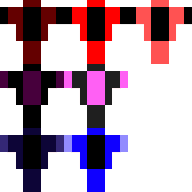
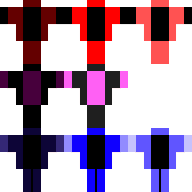
Static3 created

Changed region(s): [[0.6562, 0.6562, 1.0, 1.0], [0.4688, 0.875, 0.5312, 1.0], [0.1562, 0.875, 0.1875, 1.0]]

diff --git a/src/com/euhedral/game/Entities/Enemy/EnemyStatic3.java b/src/com/euhedral/game/Entities/Enemy/EnemyStatic3.java
@@ -6,7 +6,7 @@ import com.euhedral.game.EntityHandler;
 import java.awt.*;
 import java.awt.geom.Rectangle2D;
 
-public class EnemyStatic2 extends Enemy {
+public class EnemyStatic3 extends Enemy {
 
     double destinationX, destinationY;
     double deceleration;
@@ -19,13 +19,13 @@ public class EnemyStatic2 extends Enemy {
 
     boolean first;
 
-    public EnemyStatic2(int x, int y, int levelHeight) {
+    public EnemyStatic3(int x, int y, int levelHeight) {
         super(x, y, levelHeight);
 
 //        bulletVelocity = Utility.intAtWidth640(6);
-        shootTimerDefault = 250;
+        shootTimerDefault = 300;
         shootTimer = 50;
-        score = 175;
+        score = 200;
 
         double decelerationMAX = 0.012;
         double decelerationMIN = 0.010;
@@ -34,7 +34,7 @@ public class EnemyStatic2 extends Enemy {
         deceleration = (double) (decelerationInt) * decelerationMIN;
         deceleration = decelerationMAX;
 
-        bulletsPerShot_MAX = 3;
+        bulletsPerShot_MAX = 5;
         bulletArcAngle = 15 * bulletsPerShot_MAX;
 
         attackEffect = true;
@@ -43,10 +43,10 @@ public class EnemyStatic2 extends Enemy {
         angle = 90;
         forwardVelocity = 1;
 
-        setImage(textureHandler.enemyStatic[1]);
+        setImage(textureHandler.enemyStatic[2]);
     }
 
-    public EnemyStatic2(int x, int y, Color color, int levelHeight) {
+    public EnemyStatic3(int x, int y, Color color, int levelHeight) {
         this(x, y, levelHeight);
         this.color = color;
     }
@@ -55,7 +55,7 @@ public class EnemyStatic2 extends Enemy {
     public void initialize() {
         super.initialize();
 
-        health_MAX = 5;
+        health_MAX = 6;
 
         velX = 0;
         velY_MIN = 1.75;
@@ -95,33 +95,36 @@ public class EnemyStatic2 extends Enemy {
             }
         } else if (movementState == MOVING_CIRCLE) {
 
-            if (vMove == VerticalMovement.UP) {
-                velY -= deceleration;
-                if (Math.abs(velY) >= velY_MAX / 2) {
-                    vMove = VerticalMovement.DOWN;
-                }
-            }
+//            if (vMove == VerticalMovement.UP) {
+//                velY -= deceleration;
+//                if (Math.abs(velY) >= velY_MAX / 2) {
+//                    vMove = VerticalMovement.DOWN;
+//                }
+//            }
+//
+//            if (vMove == VerticalMovement.DOWN) {
+//                velY += deceleration;
+//                if (Math.abs(velY) >= velY_MAX / 2) {
+//                    vMove = VerticalMovement.UP;
+//                }
+//            }
+//
+//            if (hMove == HorizontalMovement.RIGHT) {
+//                velX += deceleration;
+//                if (Math.abs(velX) >= velY_MAX) {
+//                    hMove = HorizontalMovement.LEFT;
+//                }
+//            }
+//
+//            if (hMove == HorizontalMovement.LEFT) {
+//                velX -= deceleration;
+//                if (Math.abs(velX) >= velY_MAX) {
+//                    hMove = HorizontalMovement.RIGHT;
+//                }
+//            }
 
-            if (vMove == VerticalMovement.DOWN) {
-                velY += deceleration;
-                if (Math.abs(velY) >= velY_MAX / 2) {
-                    vMove = VerticalMovement.UP;
-                }
-            }
-
-            if (hMove == HorizontalMovement.RIGHT) {
-                velX += deceleration;
-                if (Math.abs(velX) >= velY_MAX) {
-                    hMove = HorizontalMovement.LEFT;
-                }
-            }
-
-            if (hMove == HorizontalMovement.LEFT) {
-                velX -= deceleration;
-                if (Math.abs(velX) >= velY_MAX) {
-                    hMove = HorizontalMovement.RIGHT;
-                }
-            }
+            calculateVelocities();
+            angle = (angle + 1) % 360;
 
             super.moveInScreen();
         }
@@ -176,7 +179,7 @@ public class EnemyStatic2 extends Enemy {
 
     @Override
     protected void setEnemyType() {
-        enemyType = EntityHandler.TYPE_STATIC2;
+        enemyType = EntityHandler.TYPE_STATIC3;
     }
 
     public boolean checkCollision(Rectangle2D object) {

diff --git a/src/com/euhedral/game/EnemyGenerator.java b/src/com/euhedral/game/EnemyGenerator.java
@@ -57,7 +57,8 @@ public class EnemyGenerator {
     final int TYPE_SIDE2 = EntityHandler.TYPE_SIDE2;
     final int TYPE_STATIC2 = EntityHandler.TYPE_STATIC2;
     final int TYPE_DRONE3 = EntityHandler.TYPE_DRONE3;
-    int maxTypes = TYPE_DRONE3 + 1;
+    final int TYPE_STATIC3 = EntityHandler.TYPE_STATIC3;
+    int maxTypes = TYPE_STATIC3 + 1;
 
     // Wave
     int wave;
@@ -170,6 +171,7 @@ public class EnemyGenerator {
 //        enemytype = TYPE_SIDE2; // stub
 //        enemytype = TYPE_STATIC2; // stub
 //        enemytype = TYPE_DRONE3; // stub
+//        enemytype = TYPE_STATIC3; // stub
 
 //        difficulty = maxTypes; // stub
 
@@ -182,36 +184,22 @@ public class EnemyGenerator {
             case TYPE_SIDE1:
                 limit = limitSide;
                 break;
-            case TYPE_STATIC2:
+            case TYPE_STATIC1:
                 limit = limitSide;
                 break;
             case TYPE_SIDE2:
                 limit = limitSide - 1;
                 break;
+            case TYPE_STATIC2:
+                limit = limitSide - 1;
+                break;
             case TYPE_DRONE3:
                 limit = 1;
                 break;
+            case TYPE_STATIC3:
+                limit = limitSide - 2;
+                break;
         }
-
-//        if (enemytype == TYPE_SIDE1) {
-//            limit = limitSide;
-//        }
-//
-//        if (enemytype == TYPE_STATIC1 || enemytype == TYPE_STATIC2) {
-//            limit = 5;
-//        }
-
-//        if (enemytype == TYPE_SIDE2) {
-//            limit = limitSide - 1;
-//        }
-//
-//        if (enemytype == TYPE_STATIC2) {
-//            limit = limitSide - 1;
-//        }
-
-//        if (enemytype == TYPE_BASIC) {
-//            limit = 20;
-//        }
 
             if (EntityHandler.getActiveEnemies(enemytype) >= limit) {
                 enemytype = TYPE_BASIC1;
@@ -267,7 +255,8 @@ public class EnemyGenerator {
         }
         // Horizontal Zone
         else {
-            if (enemytype == TYPE_HEAVY) {
+            boolean movesHorizontally = enemytype == TYPE_HEAVY || enemytype == TYPE_BASIC2 || enemytype == TYPE_STATIC2 || enemytype == TYPE_STATIC3;
+            if (movesHorizontally) {
                 spawnX = Utility.randomRangeInclusive(xStart + 3, xEnd - 3);
 
                 // check if coordinate is in exclusion list

diff --git a/src/com/euhedral/game/TextureHandler.java b/src/com/euhedral/game/TextureHandler.java
@@ -46,7 +46,7 @@ public class TextureHandler {
     public BufferedImage[] enemy = new BufferedImage[3];
     public BufferedImage[] enemyHeavy = new BufferedImage[1];
     public BufferedImage[] enemyFast = new BufferedImage[1];
-    public BufferedImage[] enemyStatic = new BufferedImage[2];
+    public BufferedImage[] enemyStatic = new BufferedImage[3];
     public BufferedImage[] enemySide = new BufferedImage[4];
     public BufferedImage[] enemyDrone = new BufferedImage[3];
     public BufferedImage[] explosion = new BufferedImage[4];
@@ -122,6 +122,7 @@ public class TextureHandler {
         enemyFast[0] = enemyDownSS.grabImage(2,2,w,h);
         enemyStatic[0] = enemyDownSS.grabImage(1,3,w,h);
         enemyStatic[1] = enemyDownSS.grabImage(2,3,w,h);
+        enemyStatic[2] = enemyDownSS.grabImage(3,3,w,h);
         enemySide[0] = enemySide1SS.grabImage(1,1,w,h);
         enemySide[1] = enemySide1SS.grabImage(2,1,w,h);
         enemySide[2] = enemySide2SS.grabImage(1,1,w,h);

diff --git a/src/com/euhedral/game/EntityHandler.java b/src/com/euhedral/game/EntityHandler.java
@@ -34,8 +34,9 @@ public class EntityHandler {
     public static final int TYPE_SIDE2 = TYPE_DRONE2 + 1;
     public static final int TYPE_STATIC2 = TYPE_SIDE2 + 1;
     public static final int TYPE_DRONE3 = TYPE_STATIC2 + 1;
+    public static final int TYPE_STATIC3 = TYPE_DRONE3 + 1;
 
-    public static final int enemyTypes = TYPE_DRONE3 + 1;
+    public static final int enemyTypes = TYPE_STATIC3 + 1;
 
     // Entity Lists
     private Flag flag; // todo: Remove
@@ -179,6 +180,8 @@ public class EntityHandler {
             enemy = new EnemyStatic2(x, y, levelHeight);
         } else if (enemyType == TYPE_DRONE3) {
             enemy = new EnemyDrone3(x, y, levelHeight);
+        } else if (enemyType == TYPE_STATIC3) {
+            enemy = new EnemyStatic3(x, y, levelHeight);
         }
 
         if (enemy != null) {

diff --git a/src/com/euhedral/game/Entities/Player.java b/src/com/euhedral/game/Entities/Player.java
@@ -260,12 +260,12 @@ public class Player extends MobileEntity {
     }
 
     public Rectangle2D getBoundsHorizontal() {
-        Rectangle2D bounds = new Rectangle2D.Double(x, y + 2*height/3 - 2, width, height/3 + 2);
+        Rectangle2D bounds = new Rectangle2D.Double(x + 1, y + 2*height/3 - 2, width - 3, height/3 - 6);
         return bounds;
     }
 
     public Rectangle2D getBoundsVertical() {
-        Rectangle2D bounds = new Rectangle2D.Double(x + (width / 4), y, (2 * width) / 4, height);
+        Rectangle2D bounds = new Rectangle2D.Double(x + (width / 4) + 1, y - 1, (2 * width) / 4 - 3, height - 1);
         return bounds;
     }
 

diff --git a/src/com/euhedral/game/UI/Menus/MenuMain.java b/src/com/euhedral/game/UI/Menus/MenuMain.java
@@ -43,7 +43,11 @@ public class MenuMain extends Menu {
         options[4] = credits;
         options[5] = quit;
 
-        MessageBox start = new MessageBox( 500, 400);
+        MessageBox start = new MessageBox( 100, 400, 1070, 200);
+        start.addText("");
+        start.addText("");
+        start.addText("");
+        start.setFontSize(90);
 
         addMessageBox(start);
 

diff --git a/src/com/euhedral/game/GameController.java b/src/com/euhedral/game/GameController.java
@@ -20,7 +20,7 @@ public class GameController {
      *******************************************/
 
     private String gameTitle = "Burning Skies";
-    public static String gameVersion = "0.6.918";
+    public static String gameVersion = "0.6.92";
     private int gameWidth = 1280;
     private double gameRatio = 4 / 3;
     private int gameHeight = Engine.HEIGHT;

diff --git a/src/com/euhedral/game/Entities/Enemy/EnemyDrone2.java b/src/com/euhedral/game/Entities/Enemy/EnemyDrone2.java
@@ -63,6 +63,12 @@ public class EnemyDrone2 extends EnemyDrone{
     }
 
     @Override
+    protected void commonInit() {
+        super.commonInit();
+        forwardVelocity = 4;
+    }
+
+    @Override
     public int getTurretX() {
         return (int) x + width/2 - Utility.intAtWidth640(2);
     }

diff --git a/src/com/euhedral/game/UI/MessageBox.java b/src/com/euhedral/game/UI/MessageBox.java
@@ -182,4 +182,9 @@ public class MessageBox extends UIItem {
     public void setTransparency(float transparency) {
         this.transparency = transparency;
     }
+
+    public void setFontSize(int fontSize) {
+        this.fontSize = fontSize;
+        font = new Font("arial", 0, fontSize);
+    }
 }

diff --git a/src/com/euhedral/game/Entities/Enemy/EnemyDrone.java b/src/com/euhedral/game/Entities/Enemy/EnemyDrone.java
@@ -83,7 +83,7 @@ public class EnemyDrone extends Enemy{
     @Override
     protected void commonInit() {
         this.setHealth(health_MAX);
-        forwardVelocity = 4f;
+        forwardVelocity = 5;
 //        velX = minVelX;
         updateDestination();
     }

diff --git a/src/com/euhedral/game/Entities/Enemy/EnemyDrone3.java b/src/com/euhedral/game/Entities/Enemy/EnemyDrone3.java
@@ -106,7 +106,7 @@ public class EnemyDrone3 extends EnemyDrone{
     @Override
     protected void commonInit() {
         super.commonInit();
-        forwardVelocity = 3f;
+        forwardVelocity = 3;
         explosionTimer = 0;
     }
 

diff --git a/src/com/euhedral/game/Entities/Enemy/EnemyStatic1.java b/src/com/euhedral/game/Entities/Enemy/EnemyStatic1.java
@@ -41,7 +41,7 @@ public class EnemyStatic1 extends Enemy {
     public void initialize() {
         super.initialize();
 
-        health_MAX = 5;
+        health_MAX = 4;
 
         velX = 0;
         velY_MIN = 1.75f;
